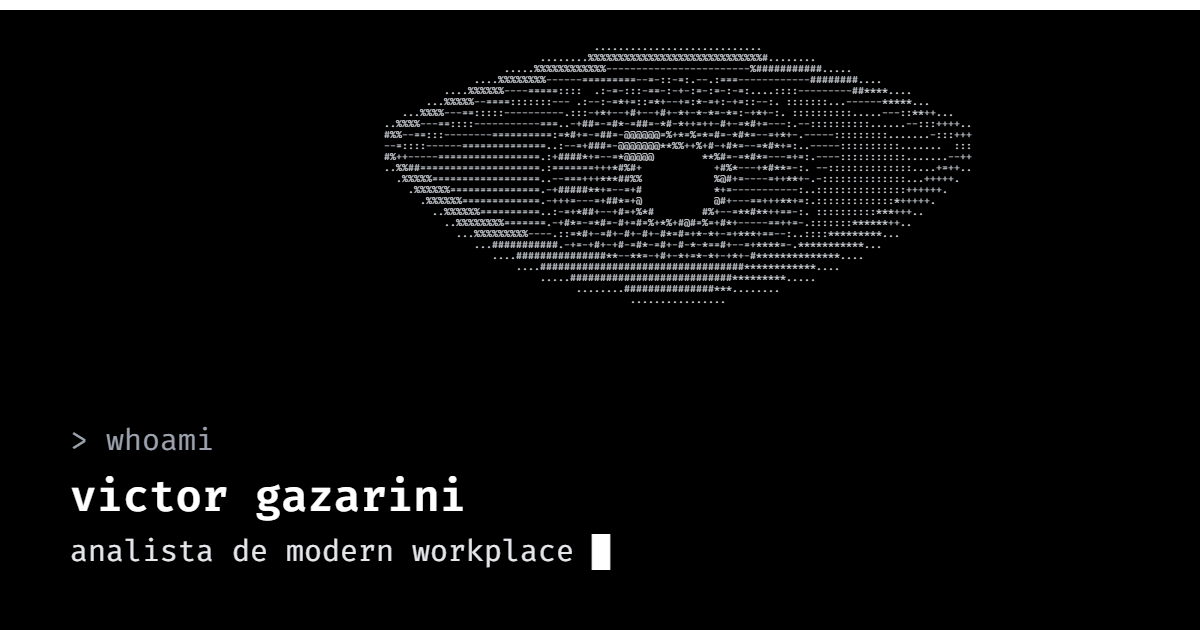
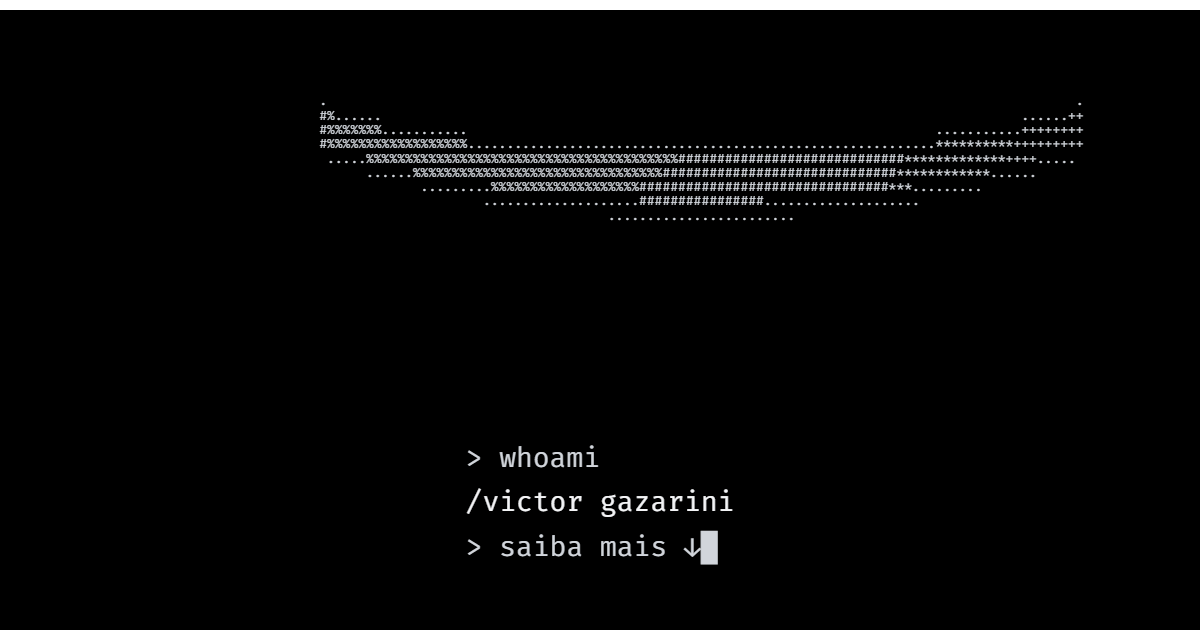
ajuste compartilhamento

diff --git a/index.html b/index.html
@@ -3,15 +3,15 @@
 <head>
   <meta charset="UTF-8">
   <meta name="viewport" content="width=device-width, initial-scale=1.0">
-  <title>Victor Gazarini | Modern Workplace</title>
-  <meta name="description" content="Portfólio de Victor Gazarini, analista de Modern Workplace: Intune, Entra ID, Autopilot e automação com PowerShell e Graph API.">
+  <title>Victor Gazarini | Portfólio</title>
+  <meta name="description" content="Victor Gazarini">
 
   <!-- Prévia ao compartilhar o link (LinkedIn, WhatsApp, etc.): Open Graph.
        A imagem precisa do endereço completo, com https:// -->
   <meta property="og:type" content="website">
   <meta property="og:url" content="https://victorgazarini.github.io/portfolio/">
-  <meta property="og:title" content="Victor Gazarini | Analista de Modern Workplace">
-  <meta property="og:description" content="Intune, ConfigMgr e automação com PowerShell e Graph API. Infra que resolve com código.">
+  <meta property="og:title" content="Victor Gazarini | Portfólio">
+  <meta property="og:description" content="Victor Gazarini">
   <meta property="og:image" content="https://victorgazarini.github.io/portfolio/img/og.png">
   <meta property="og:image:width" content="1200">
   <meta property="og:image:height" content="630">
@@ -113,7 +113,7 @@
          o desenho fica grudado na tela (sticky) enquanto isso. -->
     <section id="inicio" class="h-[300vh]">
       <div class="sticky top-0 h-screen overflow-hidden">
-        <h1 class="sr-only">Victor Gazarini, Analista de Modern Workplace</h1>
+        <h1 class="sr-only">Victor Gazarini, profissional de TI</h1>
         <!-- O JavaScript (js/olho.js) desenha a cena aqui dentro, ocupando a tela toda -->
         <pre id="olho" aria-hidden="true" class="w-full h-full overflow-hidden text-arte text-[8px] md:text-[10px] leading-[1.1] select-none [font-variant-ligatures:none]"></pre>
 

diff --git a/curriculo.html b/curriculo.html
@@ -4,13 +4,13 @@
   <meta charset="UTF-8">
   <meta name="viewport" content="width=device-width, initial-scale=1.0">
   <title>Currículo | Victor Gazarini</title>
-  <meta name="description" content="Currículo de Victor Gazarini, Analista de Modern Workplace: Microsoft Intune, ConfigMgr (SCCM), PowerShell e Power BI.">
+  <meta name="description" content="Victor Gazarini">
 
   <!-- Prévia ao compartilhar o link (Open Graph) -->
   <meta property="og:type" content="profile">
   <meta property="og:url" content="https://victorgazarini.github.io/portfolio/curriculo.html">
-  <meta property="og:title" content="Currículo | Victor Gazarini, Analista de Modern Workplace">
-  <meta property="og:description" content="+30.000 endpoints com Microsoft Intune e ConfigMgr, automação em PowerShell e relatórios em Power BI.">
+  <meta property="og:title" content="Currículo | Victor Gazarini">
+  <meta property="og:description" content="Victor Gazarini">
   <meta property="og:image" content="https://victorgazarini.github.io/portfolio/img/og.png">
   <meta property="og:image:width" content="1200">
   <meta property="og:image:height" content="630">
